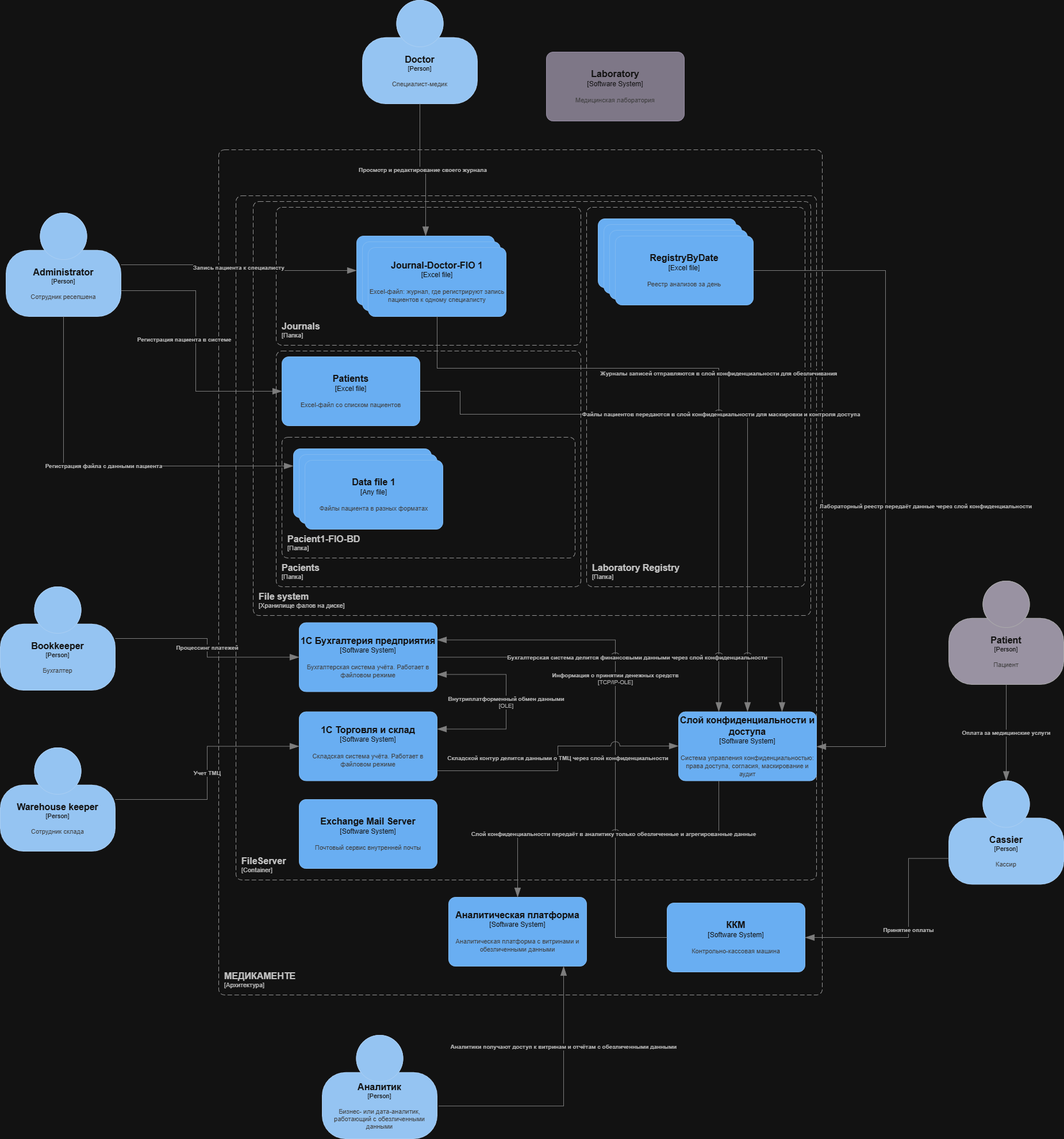
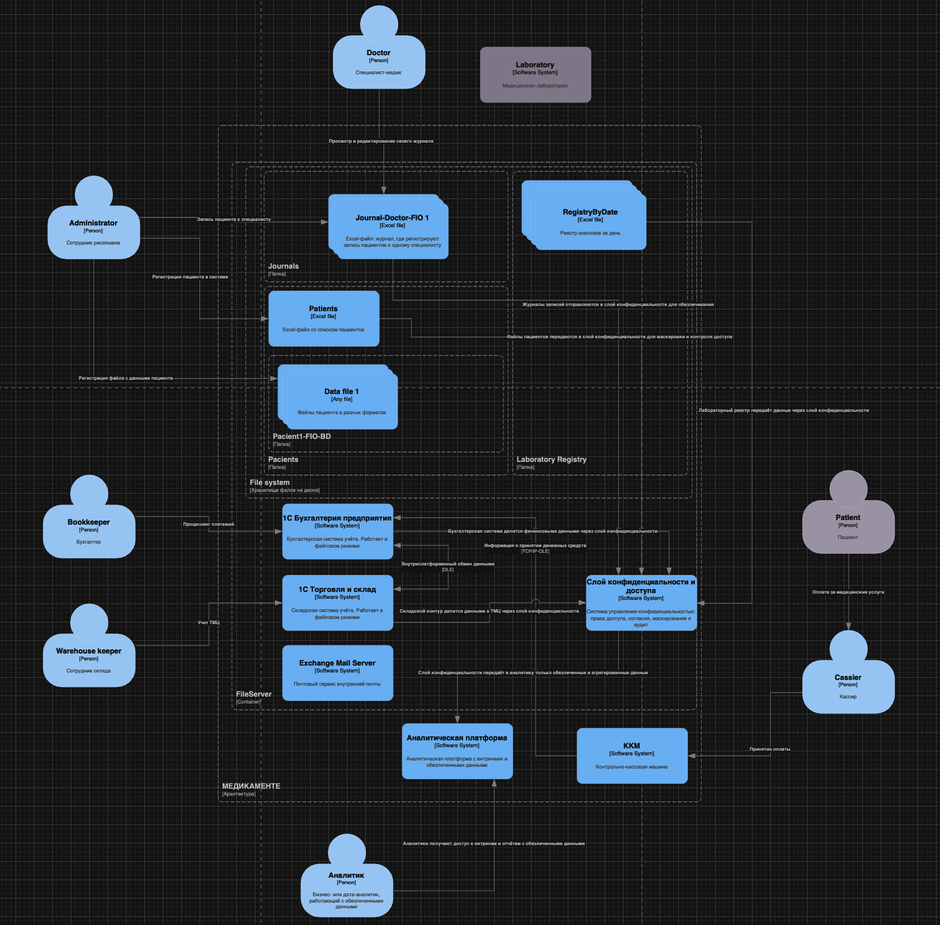
Task-4

diff --git a/Task4/Проблемы.md b/Task4/Проблемы.md
@@ -1,0 +1,252 @@
+# Оценка узких мест при миграции монолитной системы «Медикаменте» на современную архитектуру
+
+## 1. Контекст и цели миграции
+
+Компания «Медикаменте» — медицинская организация, которая в настоящее время:
+- ведёт журналы, запись пациентов, платежи и медицинские карты в Excel и бумажных сканах на общем файловом диске;
+- использует «1С:Бухгалтерия предприятия» и «1С:Торговля и склад» для учёта финансов и ТМЦ;
+- планирует активный рост: новые филиалы, кратный рост числа клиентов и объёма данных.
+
+Цели миграции:
+- уйти от ручной обработки данных к единой системе хранения и управления;
+- обеспечить масштабирование под рост филиалов и клиентской базы;
+- повысить безопасность и управляемость работы с медицинскими данными;
+- сократить time-to-market для новых функций (портал, мобильное приложение, интеграция с лабораторией).
+
+Планируется переход от устаревшей монолитной/ручной системы к современной архитектуре (микросервисы, контейнеры, оркестратор, единое ядро данных и интеграционный слой).
+
+Основная формулировка проблемы для диаграммы Исикавы:
+
+> **Риск снижения производительности и надёжности системы при миграции монолита «Медикаменте» на микросервисную архитектуру.**
+
+## 2. Категории диаграммы Исикавы
+
+В диаграмме Исикавы (fishbone) выделены пять основных категорий причин возможных узких мест:
+
+1. **Инфраструктура**
+2. **Программное обеспечение (архитектура и код)**
+3. **Интеграция и данные**
+4. **Процессы (разработка, тестирование, релиз)**
+5. **Персонал и организация**
+
+Ниже — детализированный список потенциальных проблем по каждой категории.
+
+## 3. Потенциальные узкие места по категориям
+
+### 3.1. Инфраструктура
+
+**Проблема 1. Несоответствие ресурсов целевой нагрузке**
+
+- Исходная инфраструктура проектировалась под один офис и небольшое число пользователей.
+- При росте филиалов и переходе на web/мобильные каналы нагрузка на CPU, память, диск и сеть возрастёт кратно.
+- Есть риск, что существующее железо/виртуалки и сеть не обеспечат требуемых SLA — появятся высокие задержки и таймауты.
+
+**Проблема 2. Отсутствие изоляции ресурсов между сервисами**
+
+- Все сервисы могут быть развёрнуты в одном кластере без корректной настройки ресурсов (requests/limits).
+- «Шумные соседи» (resource hogs) будут потреблять CPU/память, провоцируя деградацию критичных сервисов.
+
+**Проблема 3. Некорректная конфигурация контейнеризации и оркестратора**
+
+- Не настроены liveness/readiness-пробы, автоскейлинг, лимиты ресурсов.
+- Неправильные таймауты и политики рестарта могут приводить к «флаппингу» подов, лавинообразным перезапускам и деградации под нагрузкой.
+
+**Проблема 4. Узкие места сети**
+
+- Не учтена задержка между филиалами и центральной инфраструктурой.
+- Критичные синхронные запросы (например, запись к врачу) зависят от медленных межфилиальных каналов.
+
+**Проблема 5. Отсутствие надёжного резервирования**
+
+- База данных, брокер сообщений или API-шлюз могут быть единой точкой отказа (SPOF).
+- Любой сбой приведёт к полному простою записи и биллинга.
+
+### 3.2. Программное обеспечение (архитектура и код)
+
+**Проблема 6. Общая монолитная база данных вокруг микросервисов**
+
+- Микросервисы используют одну большую монолитную базу, унаследованную от старой системы.
+- Возникают блокировки, конкуренция за ресурсы БД, сложные миграции схем.
+- Любое изменение схемы затрагивает все сервисы, что нарушает независимость релизов.
+
+**Проблема 7. Чрезмерно связанная архитектура сервисов**
+
+- Межсервисные взаимодействия реализованы синхронными вызовами по цепочке.
+- Сервисы избыточно «переговариваются» друг с другом (chatty API), увеличивая латентность и риски каскадных отказов.
+- Нет явных доменных границ; сервисы обращаются к чужим данным напрямую.
+
+**Проблема 8. Неэффективные алгоритмы и запросы**
+
+- Унаследованные алгоритмы без профилирования переносятся в новые сервисы.
+- Запросы к БД тяжёлые: без индексов и пагинации, часто возвращают избыточный объём данных.
+- Под нагрузкой это быстро превращается в узкое место.
+
+**Проблема 9. Недостаточная наблюдаемость (observability)**
+
+- Логи распределены и не агрегируются централизованно.
+- Отсутствует распределённая трассировка запросов (distributed tracing), метрики неполные (нет DORA-метрик, RTO/RPO).
+- Растёт MTTR: локализовать узкое место под нагрузкой затруднительно.
+
+### 3.3. Интеграция и данные
+
+**Проблема 10. Сложная синхронизация старой и новой систем**
+
+- Старая и новая системы могут работать параллельно (Parallel Run), но механизмы синхронизации данных не проработаны.
+- Возможны ночные пакетные выгрузки и ручные сверки в Excel, что порождает рассинхронизацию и конфликтующие версии данных.
+
+**Проблема 11. Несогласованные схемы и форматы данных**
+
+- Старые схемы 1С и Excel-таблицы не совпадают с целевыми доменными моделями.
+- Требуются тяжёлые ETL-трансформации, которые сами становятся узким местом.
+
+**Проблема 12. Централизованный интеграционный «комбайн»**
+
+- Есть риск построить единый «толстый» интеграционный слой, через который идут все запросы.
+- Такой слой превращается в новый монолит и bottleneck.
+
+**Проблема 13. Отсутствие единого источника правды и событийной модели**
+
+- Разные домены (запись, биллинг, лаборатория) могут параллельно обновлять одни и те же сущности пациента.
+- Без событийной модели (Event Sourcing / event-driven интеграция) возникают конфликты и блокировки.
+
+**Проблема 14. Слабое контрактное тестирование интеграций**
+
+- API развиваются независимо; команды меняют схемы запросов и ответов без согласования.
+- При деплое нового сервиса интеграции неожиданно ломаются.
+
+### 3.4. Процессы (разработка, тестирование, релиз)
+
+**Проблема 15. Низкая частота релизов и крупные «поездные» релизы**
+
+- Практика унаследована от монолита: большой объединённый релиз раз в несколько недель/месяцев.
+- Даже небольшие правки ждут общего релиза; time-to-market остаётся высоким.
+
+**Проблема 16. Долгое время выполнения изменений (Lead Time for Changes)**
+
+- Много ручного тестирования и ручных шагов деплоя.
+- Сложные согласования между командами, отсутствие зрелого CI/CD.
+
+**Проблема 17. Отсутствие системного нагрузочного тестирования новой архитектуры**
+
+- Микросервисы запускаются без регулярных нагрузочных и chaos-тестов.
+- Нет уверенности в поведении системы под пиковыми нагрузками (например, утренний наплыв звонков и онлайн-записей).
+
+**Проблема 18. Нет чёткого плана миграции и отката**
+
+- Возможен сценарий «Big Bang» — одномоментное переключение трафика на новую систему.
+- При проблемах возврат на монолит затруднён: формализованной процедуры rollback нет.
+
+### 3.5. Персонал и организация
+
+**Проблема 19. Недостаточный опыт работы с микросервисами и облачной инфраструктурой**
+
+- Команда исторически работала с on-prem, 1С и монолитами.
+- Мало опыта в Kubernetes, observability, event-driven архитектуре.
+
+**Проблема 20. Разделение команд по слоям, а не по доменам (закон Конвея)**
+
+- Существуют отдельная «инфраструктурная» команда и отдельная команда «бизнес-логики».
+- Обмен знаниями слабый; архитектура воспроизводит организационные разрывы.
+
+**Проблема 21. Отсутствие единых приоритетов по миграции**
+
+- Нет согласованной дорожной карты с указанием того, какие домены мигрируются первыми.
+- Команды могут расходовать ресурсы на второстепенные области, пока критические остаются в монолите.
+
+**Проблема 22. Недостаточная подготовка эксплуатации и поддержки**
+
+- Службы поддержки и эксплуатации не готовы к работе с распределённой системой.
+- Время закрытия инцидентов возрастёт, увеличивая простой.
+
+## 4. Рекомендации по устранению узких мест и приоритеты
+
+### 4.1. Инфраструктура
+
+1. **Провести нагрузочное моделирование и capacity planning до миграции.**
+    - Оценить целевые SLA по latency и пропускной способности.
+    - Смоделировать пиковые нагрузки (рост филиалов, мобильное приложение).
+    - **Приоритет: высокий.**
+
+2. **Настроить ресурсы и автоскейлинг в оркестраторе.**
+    - Для каждого сервиса задать requests/limits, HPA, liveness/readiness-пробы.
+    - Разнести критичные сервисы и фоновые задачи по отдельным node pool/namespace.
+    - **Приоритет: высокий.**
+
+3. **Обеспечить резервирование и отказоустойчивость БД и критичных сервисов.**
+    - Реализовать репликацию/кластеризацию, провести test failover.
+    - Зафиксировать RTO/RPO и регулярно проверять их достижимость.
+    - **Приоритет: средний.**
+
+### 4.2. Программное обеспечение (архитектура и код)
+
+4. **Разработать высокоуровневый доменный дизайн (High-Level Design) до активной миграции.**
+    - Разбить монолит на домены (запись, биллинг, лаборатория, аналитика).
+    - Определить границы сервисов и владеющие доменные модели.
+    - **Приоритет: высокий.**
+
+5. **Постепенно уходить от общей монолитной БД.**
+    - Ввести стратификацию по доменам, выделить отдельные схемы/БД.
+    - Для междоменных данных использовать событийную интеграцию (события «PatientCreated», «AppointmentScheduled» и т. п.).
+    - **Приоритет: высокий.**
+
+6. **Встроить observability как неотъемлемую часть архитектуры.**
+    - Логирование + метрики + трассировка с единым корреляционным ID.
+    - Определить набор ключевых метрик (latency, error rate, DF, LTC, MTTR и т. п.) и пороги алертов.
+    - **Приоритет: высокий.**
+
+7. **Провести аудит SQL-запросов и алгоритмов.**
+    - Оптимизировать тяжёлые запросы, добавить индексы, внедрить пагинацию.
+    - Поставить профилирование как регулярную практику.
+    - **Приоритет: средний.**
+
+### 4.3. Интеграция и данные
+
+8. **Спроектировать механизм Parallel Run и синхронизации данных.**
+    - Для критичных потоков (запись, биллинг) реализовать параллельный запуск старой и новой системы.
+    - Прописать правила маршрутизации трафика (10% → 50% → 100%).
+    - Явно определить источник истины по каждому домену.
+    - **Приоритет: высокий.**
+
+9. **Ввести событийную интеграцию и единый источник правды.**
+    - Ключевые изменения состояния оформлять как доменные события в шине сообщений.
+    - Подписчики строят свои проекции и кэши на основе событий.
+    - **Приоритет: средний.**
+
+10. **Настроить контрактное тестирование интеграций.**
+    - Для публичных API зафиксировать формат контрактов.
+    - Добавить проверки совместимости в CI/CD.
+    - **Приоритет: средний.**
+
+### 4.4. Процессы (разработка, тестирование, релиз)
+
+11. **Внедрить CI/CD и сократить размер релизных пачек.**
+    - Переходить от крупных редких релизов к частым, небольшим поставкам.
+    - Ориентироваться на DORA-метрики (Deployment Frequency, Lead Time, MTTR).
+    - **Приоритет: высокий.**
+
+12. **Настроить регулярные нагрузочные тесты новой архитектуры.**
+    - Покрыть ключевые пользовательские сценарии (запись, оплата, просмотр результатов анализов).
+    - Прогонять перед крупными этапами миграции.
+    - **Приоритет: высокий.**
+
+13. **Разработать формализованный план миграции и отката.**
+    - Определить этапы, механизмы переключения (feature toggles, маршрутизация трафика).
+    - Прописать шаги rollback для каждого крупного этапа.
+    - **Приоритет: высокий.**
+
+### 4.5. Персонал и организация
+
+14. **Сформировать кросс-функциональные команды по доменам.**
+    - Команда «Запись» включает разработчиков, аналитиков, ops, QA.
+    - Аналогично для биллинга и аналитики.
+    - **Приоритет: высокий.**
+
+15. **Провести обучение по микросервисной архитектуре, observability и инструментам.**
+    - Внутренние воркшопы, ревью архитектурных решений.
+    - Обучение эксплуатации чтению метрик и логов.
+    - **Приоритет: средний.**
+
+16. **Определить единую дорожную карту миграции и приоритизацию доменов.**
+    - Мигрировать в первую очередь домены с наибольшим бизнес-эффектом и наименьшей сложностью.
+    - Обеспечить прозрачную коммуникацию приоритетов внутри команды и для бизнеса.
+    - **Приоритет: высокий.**
